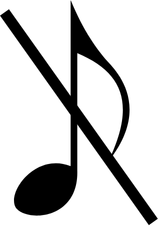
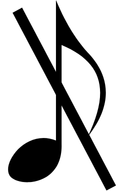
alpha v1

diff --git a/style.css b/style.css
@@ -70,8 +70,8 @@ h1, h2, h3, h4, h5, h6, button {
   border: none;
   background: url('Images/music_muted.png') no-repeat center center;
   background-size: cover;
-  width: auto;
-  height: auto;
+  height: 5.5vh; /* or whatever value you want */
+  width: calc(5.5vh * 0.6702); /* maintain aspect ratio */
 }
 
 .button-sound.sound-off {

diff --git a/index.html b/index.html
@@ -8,7 +8,7 @@
   <script src="script.js"></script>
 </head>
 <body>
-<audio id="bgMusic" src="Sounds/ReatWorksbgm.mp3"></audio>
+<audio id="bgMusic" src="Sounds/ReatWorksbgm.mp3" autoplay loop></audio>
 <div class="menu-bar-wrapper">
   <div class="title-container">
     <h4 class="title">ReatWorks</h4>

diff --git a/script.js b/script.js
@@ -2,6 +2,7 @@ function toggleSound() {
   const btn = document.getElementById("soundButton");
   const audio = document.getElementById("bgMusic");
   audio.play()
+  audio.loop = true;
 
   if (btn.classList.contains("sound-on")) {
     btn.classList.remove("sound-on");
